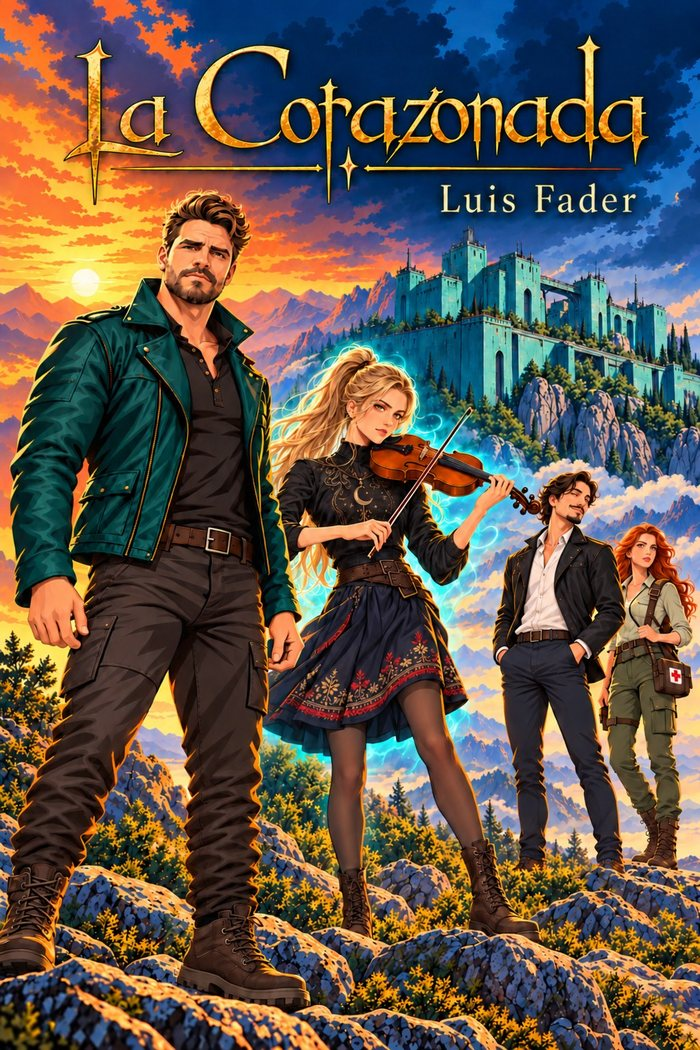
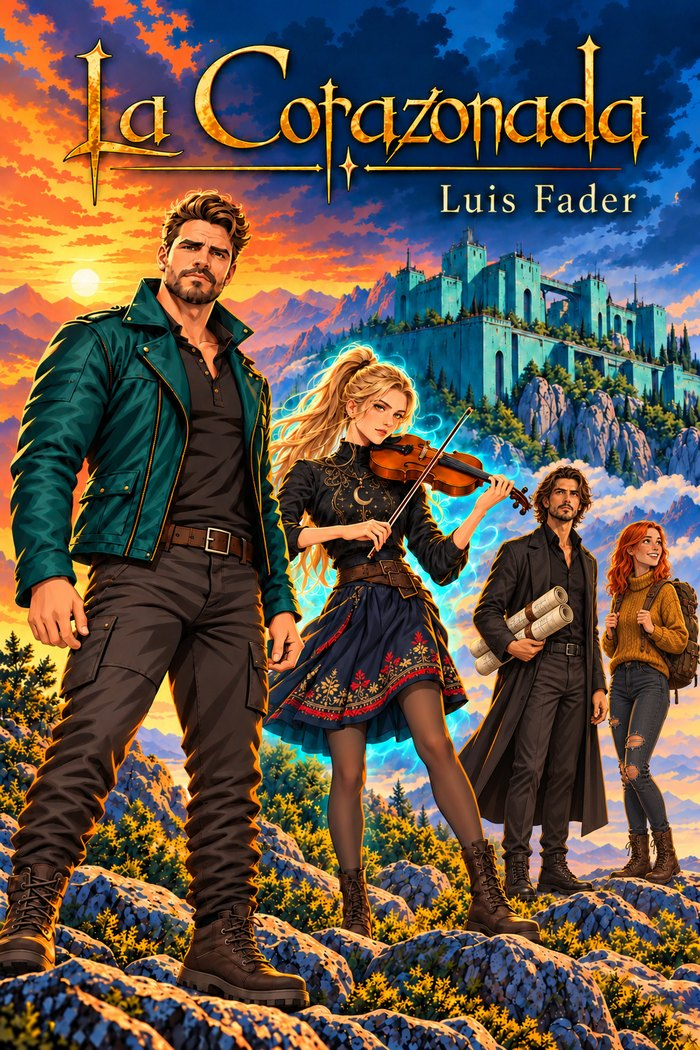
Portada nueva de «La Corazonada» (cover-v5 de Litmir)
Claude-Session: https://claude.ai/code/session_01RpVgzUW4RXCyxwc5oGRuBn

diff --git a/index.html b/index.html
@@ -30,7 +30,7 @@
 
   <main class="wrap">
     <section class="intro">
-      <img class="cover" src="assets/img/cover.jpg" alt="Portada de «La Corazonada»">
+      <img class="cover" src="assets/img/cover.jpg?v=5" alt="Portada de «La Corazonada»">
       <div>
         <h2>La violinista que descubrió su voz</h2>
         <p>En la fortaleza turquesa, Natalia tocaba el violín para que la gente no olvidara la belleza. Oxana pintaba y, en un cuaderno que no le mostraba a nadie, escribía poemas. Una tarde se lo mostró. Natalia leyó dos veces, apoyó el violín en el hombro y, sin haberlo planeado, empezó a cantar.</p>
